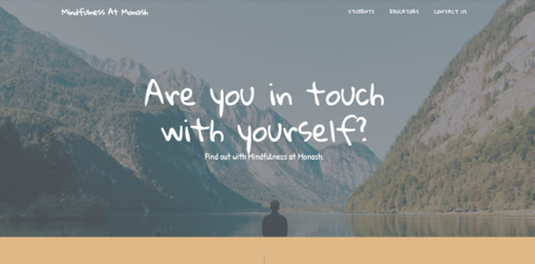
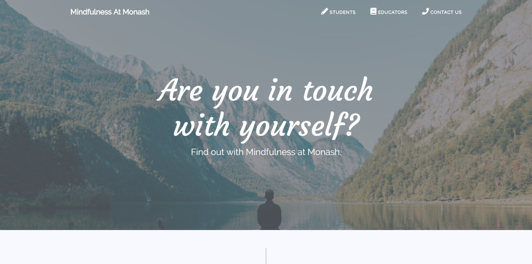
Usability & layout changes

diff --git a/webroot/css/custom_classes.css b/webroot/css/custom_classes.css
@@ -154,6 +154,10 @@ a.card div.card-title {
     font-weight: bold;
     font-size: 1.6rem;
 }
+div#article div.dates {
+    font-size: 0.8em;
+}
+
 
 /* Client-side Sidebar */
 .sidebar-wrapper {
@@ -203,6 +207,10 @@ a.card div.card-title {
 
 
 /*Who Are We*/
+div.container#contact_us {
+    padding: 100px 0px;
+    color: white;
+}
 span#contactdesc {
     font-size: 1.2rem; line-height: 1.2;
 }
@@ -228,8 +236,11 @@ img#whoAreWe {
     height: 100%;
     width: auto;
 }
+footer div.container #contacts {
+    padding-bottom: 100px;
+}
 
-/* Footer - ask how to make it change color on hover. No answer online. */
+/* Footer */
 .fas {
     color: #3b5998;
 }
@@ -238,6 +249,9 @@ img#whoAreWe {
 }
 a#footlink:hover {
     opacity: 0.8;
+}
+footer .fa-circle {
+    color: #1e6abc;
 }
 
 /* Error Messages */

diff --git a/webroot/css/clean-blog.css b/webroot/css/clean-blog.css
@@ -214,12 +214,25 @@ header.masthead .site-heading {
   padding: 200px 0 150px;
   color: white;
 }
+#contact_us header.masthead .page-heading,
+#contact_us header.masthead .post-heading,
+#contact_us header.masthead .site-heading {
+  padding: 0px;
+  color: white;
+}
 
 @media only screen and (min-width: 768px) {
   header.masthead .page-heading,
   header.masthead .post-heading,
   header.masthead .site-heading {
     padding: 200px 0;
+  }
+}
+@media only screen and (min-width: 768px) {
+  #contact_us header.masthead .page-heading,
+  #contact_us header.masthead .post-heading,
+  #contact_us header.masthead .site-heading {
+    padding: 0px;
   }
 }
 

diff --git a/src/Controller/ArticleController.php b/src/Controller/ArticleController.php
@@ -15,7 +15,7 @@ use Cake\Routing\Router;
  */
 class ArticleController extends AppController
 {
-    
+
     public function initialize()
     {
         parent::initialize();
@@ -31,7 +31,8 @@ class ArticleController extends AppController
     public function index()
     {
         $this->paginate = [
-            'contain' => ['Category']
+            'contain' => ['Category'],
+            'order' => ['Article.modified' => 'desc']
         ];
         $article = $this->paginate($this->Article);
 
